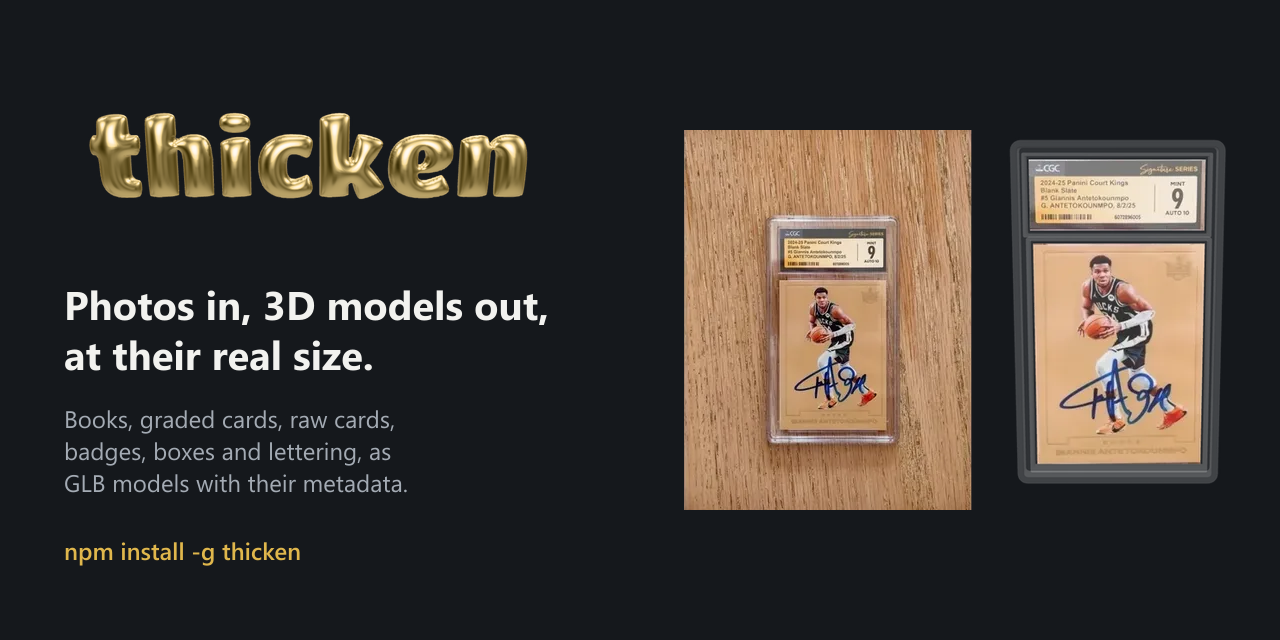
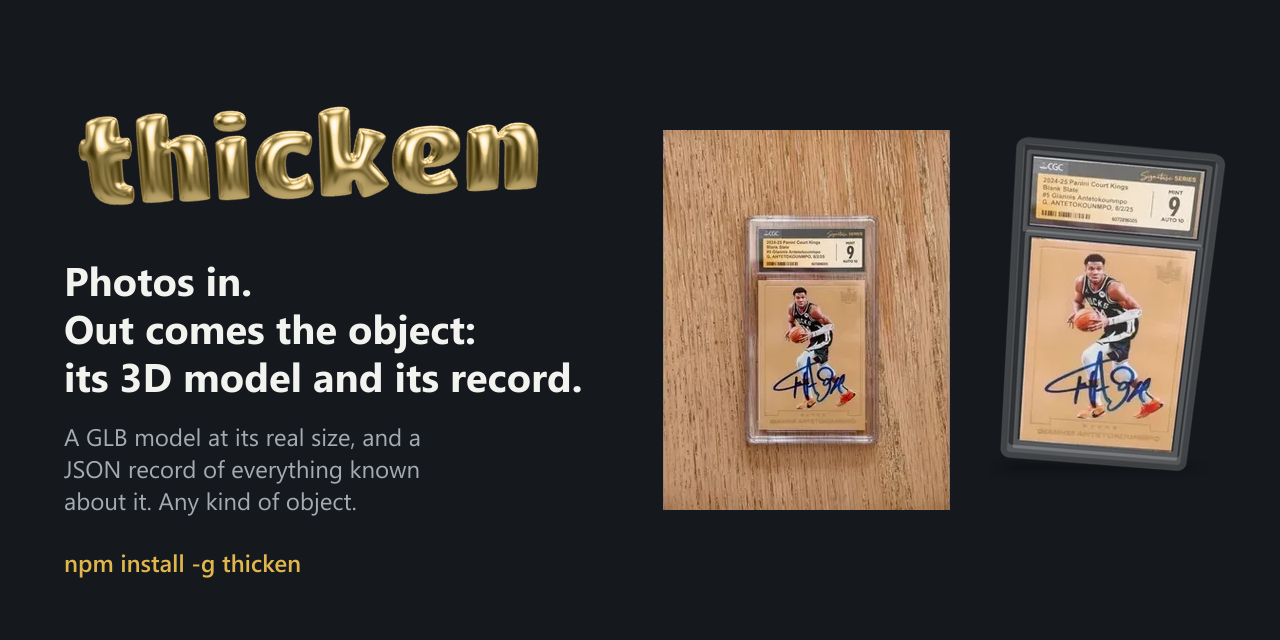
The showcase turns slower and shows both photos; the opening reads plainer
- Each model takes 10 to 13 seconds a turn (6 before), at its own tilt,
  lean and direction, so no two move alike; the bob is a third as high and
  comes once a turn, not twice (scripts/turntable.ts: --lean, --bob, --turn).
- Each shows the front and back photos it was made from, two a row.
- The book is left out until a fresh one is photographed: Skipping
  Christmas's spine read empty.
- The social card is redrawn from the new Giannis turn, its headline the
  README's: "Photos in. Out comes the object: its 3D model and its record."
- From a bench review of the README's opening (gemini-3.8-flash,
  qwen3.8-27b and gemma4-cloud answered; minimax-m2.7 and deepseek-v4.1-flash
  didn't): the record is "looked up in public catalogs", not "wherever its
  kind has a catalog", in the README, the About line, the package and plugin
  descriptions and the MCP tool; "a few come with thicken", not "with it";
  the caption says each model comes with its record; "The other half: the
  record"; the slab's certificate number spelled out, and what the vision
  models read named; the lettering command explained.
- The book profile's User-Agent names thicken in lowercase, with the
  repository as its contact, as Open Library asks of API users.

diff --git a/scripts/turntable.ts b/scripts/turntable.ts
@@ -6,7 +6,8 @@
 //   float: a slow, uneven drift, small turns, a lean and a rise and fall, as a balloon floats (the logo)
 //   node scripts/turntable.ts <model.glb> <out.webp> [--motion spin|float] [--still out.png] [--width 900]
 //     [--height 300] [--zoom 100] [--tilt 75] [--frames 90] [--fps 15] [--exposure 1.0] [--environment neutral|legacy]
-//     [--shadow 0.6]
+//     [--shadow 0.6] [--lean=-6] [--bob 0.008] [--turn=1|-1]   (spin: its lean in degrees, bob as a share of its
+//     height, and which way it turns; a negative number goes after an =, or it's read as an option)
 import { readFileSync } from 'node:fs';
 import { createRequire } from 'node:module';
 import { parseArgs } from 'node:util';
@@ -20,15 +21,17 @@ const { positionals: [model, out], values } = parseArgs({
     width: { type: 'string', default: '900' }, height: { type: 'string', default: '300' }, zoom: { type: 'string', default: '100' },
     tilt: { type: 'string', default: '75' }, frames: { type: 'string', default: '90' }, fps: { type: 'string', default: '15' },
     exposure: { type: 'string', default: '1.0' }, environment: { type: 'string', default: 'neutral' }, shadow: { type: 'string', default: '0' },
+    lean: { type: 'string', default: '-6' }, bob: { type: 'string', default: '0.008' }, turn: { type: 'string', default: '1' },
   },
 });
+const [lean, bob, turn] = ['lean', 'bob', 'turn'].map((key) => Number(values[key as keyof typeof values]));
 if (!model || !out) throw new Error('usage: node scripts/turntable.ts <model.glb> <out.webp> [--motion spin|float] [options]');
 const [width, height, zoom, tilt, frames, fps] = ['width', 'height', 'zoom', 'tilt', 'frames', 'fps'].map((key) => Number(values[key as keyof typeof values]));
 const FOV = 30; // degrees: a fixed lens and distance, so the model never seems to zoom as it moves
 
 /** Where the model is at t (0 to 1, one loop): its roll, pitch and yaw in degrees, and its rise, a share of its height. */
 const MOTIONS: Record<string, (t: number) => { roll: number; pitch: number; yaw: number; rise: number }> = {
-  spin: (t) => ({ roll: -6, pitch: 0, yaw: 360 * t, rise: 0.025 * Math.sin(4 * Math.PI * t) }),
+  spin: (t) => ({ roll: lean, pitch: 0, yaw: 360 * turn * t, rise: bob * Math.sin(2 * Math.PI * t) }),
   float: (t) => ({
     roll: 2.5 * Math.sin(2 * Math.PI * t + 1),
     pitch: 3 * Math.sin(4 * Math.PI * t),

diff --git a/scripts/social-card.ts b/scripts/social-card.ts
@@ -14,12 +14,13 @@ const shown = await sharp(pair, { page: 0 }).resize({ height: PAIR_H }).toBuffer
 const { width: shownWidth = 0 } = await sharp(shown).metadata();
 const text = `<svg xmlns="http://www.w3.org/2000/svg" width="${W}" height="${H}">
   <g font-family="'Segoe UI', -apple-system, Helvetica, Arial, sans-serif">
-    <text x="64" y="320" fill="#f2f2ef" font-size="40" font-weight="700">Photos in. Out comes</text>
-    <text x="64" y="370" fill="#f2f2ef" font-size="40" font-weight="700">its 3D model and its record.</text>
-    <text x="64" y="428" fill="#a4abb4" font-size="24">A GLB model at its real size, and a</text>
-    <text x="64" y="460" fill="#a4abb4" font-size="24">JSON record of everything known</text>
-    <text x="64" y="492" fill="#a4abb4" font-size="24">about it. Any kind of object.</text>
-    <text x="64" y="560" fill="#e0b74c" font-size="24" font-weight="600">npm install -g thicken</text>
+    <text x="64" y="296" fill="#f2f2ef" font-size="40" font-weight="700">Photos in.</text>
+    <text x="64" y="344" fill="#f2f2ef" font-size="40" font-weight="700">Out comes the object:</text>
+    <text x="64" y="392" fill="#f2f2ef" font-size="40" font-weight="700">its 3D model and its record.</text>
+    <text x="64" y="446" fill="#a4abb4" font-size="24">A GLB model at its real size, and a</text>
+    <text x="64" y="478" fill="#a4abb4" font-size="24">JSON record of everything known</text>
+    <text x="64" y="510" fill="#a4abb4" font-size="24">about it. Any kind of object.</text>
+    <text x="64" y="572" fill="#e0b74c" font-size="24" font-weight="600">npm install -g thicken</text>
   </g>
 </svg>`;
 await sharp({ create: { width: W, height: H, channels: 4, background: GROUND } })

diff --git a/src/mcp.ts b/src/mcp.ts
@@ -80,7 +80,7 @@ export async function serve(): Promise<void> {
   }));
   server.registerTool('thicken_make', {
     title: 'Make a 3D model with thicken',
-    description: 'Turns photos of one real object (or artwork, or words, or a book\'s ISBN) into two files that belong together: a GLB model at the object\'s real size, in millimeters, and a JSON record of what it is, read off it and looked up (its profile\'s records: thicken_profiles lists each kind of object and what it records). Writes both files and returns their paths and the main facts. Photos need not be cropped when a vision roster is set up (THICKEN_VISION_URL, THICKEN_VISION_MODELS); without one, give straight-on photos cropped to the object, and name the profile. One object a call: for several, call once each.',
+    description: 'Turns photos of one real object (or artwork, or words, or a book\'s ISBN) into two files that belong together: a GLB model at the object\'s real size, in millimeters, and a JSON record of what it is, read off it by vision models and looked up in public catalogs (its profile\'s records: thicken_profiles lists each kind of object and what it records). Writes both files and returns their paths and the main facts. Photos need not be cropped when a vision roster is set up (THICKEN_VISION_URL, THICKEN_VISION_MODELS); without one, give straight-on photos cropped to the object, and name the profile. One object a call: for several, call once each.',
     inputSchema: makeInput,
   }, async (args) => ({ content: [{ type: 'text', text: await made(args) }] }));
   await server.connect(new StdioServerTransport());

diff --git a/src/profiles/book.ts b/src/profiles/book.ts
@@ -452,7 +452,7 @@ async function fetchBytes(url: string, log: Log): Promise<Buffer | undefined> {
   const started = performance.now();
   const note = (status: Lookup['status']) => log.lookups.push({ host, path, status, ms: Math.round(performance.now() - started) });
   try {
-    const response = await fetch(url, { headers: { 'User-Agent': 'Thicken (3D models from photos)' }, signal: AbortSignal.timeout(LOOKUP_TIMEOUT_MS) });
+    const response = await fetch(url, { headers: { 'User-Agent': 'thicken (3D models from photos; https://github.com/bikemeardsley/thicken)' }, signal: AbortSignal.timeout(LOOKUP_TIMEOUT_MS) });
     note(response.status);
     if (response.ok) return Buffer.from(await response.arrayBuffer());
     if (response.status !== 404) log.warnings.push(`${host} answered ${response.status}`);

diff --git a/README.md b/README.md
@@ -1,5 +1,5 @@
 <p align="center">
-  <img src=".github/logo.webp" width="560" alt="thicken, in gold 3D bubble letters, swaying gently: the logo is a thicken model">
+  <img src=".github/logo.webp" width="560" alt="thicken, in gold 3D bubble letters, drifting slowly: the logo is a thicken model">
 </p>
 
 <p align="center">
@@ -16,22 +16,20 @@
 thicken turns photos of a real object into two files that belong together: a
 **GLB model** at the object's real size, in millimeters, and a **JSON record**
 of everything known about it, read off the object by vision models and looked
-up wherever its kind has a catalog. What thicken knows about a kind of object
-(how it's built, what to read off it, where to look it up) lives in a
-**profile**: a few come with it, and you can [add your own](#adding-a-profile)
-for any kind of object. Put the model in a web page or Blender; build a
-collection, an inventory or an app on the record.
+up in public catalogs, where its kind has one. What thicken knows about a kind
+of object (how it's built, what to read off it, where to look it up) lives in
+a **profile**: a few come with thicken, and you can
+[add your own](#adding-a-profile) for any kind of object. Put the model in a
+web page or Blender; build a collection, an inventory or an app on the record.
 
 <p align="center">
-  <img src=".github/show/giannis.webp" height="220" alt="A photo of a CGC-graded Giannis Antetokounmpo autograph card on a wooden table, beside the clear 3D slab thicken made from it, turning">
-  <img src=".github/show/erving.webp" height="220" alt="A photo of a PSA-graded 1976 Topps Julius Erving in a tall holder, beside its 3D model, turning">
-  <br>
-  <img src=".github/show/psyduck.webp" height="220" alt="A photo of a reverse-holo Psyduck card, beside its 3D model, the foil shimmering as it turns">
-  <img src=".github/show/skipping.webp" height="220" alt="A photo of the hardcover Skipping Christmas, beside its 3D model, turning to show its back cover">
+  <img src=".github/show/giannis.webp" width="49%" alt="Photos of the front and back of a CGC-graded Giannis Antetokounmpo autograph card on a wooden table, beside the clear 3D slab thicken made from them, turning all the way round">
+  <img src=".github/show/erving.webp" width="49%" alt="Photos of the front and back of a PSA-graded 1976 Topps Julius Erving in a tall holder, beside its 3D model, turning all the way round">
+  <img src=".github/show/psyduck.webp" width="49%" alt="Photos of the front and back of a reverse-holo Psyduck card, beside its 3D model, the foil shimmering as it turns">
 </p>
-<p align="center"><sub>In each pair, a photo going in, and the GLB model coming out, turned all the way round. The logo above is a thicken model too: <code>thicken lettering thicken</code>.</sub></p>
+<p align="center"><sub>In each, the photos going in and the model coming out, turned all the way round; each model comes with its record, like the one below. The logo above is a thicken model too, made by its lettering profile: <code>thicken lettering thicken</code>.</sub></p>
 
-**And beside each model, its record.** The Giannis slab's, in part:
+**The other half: the record.** Part of the first one's, a graded Giannis Antetokounmpo card:
 
 ```json
 {
@@ -55,9 +53,10 @@ collection, an inventory or an app on the record.
 }
 ```
 
-The grader and cert come from the label's QR code; the rest the vision models
-read off it. What each profile records is under [What it makes](#what-it-makes);
-every field, in [USAGE.md](USAGE.md#what-the-sidecar-records).
+The grader and certificate number come from the label's QR code; the vision
+models read the rest off the slab. What each profile records is in
+[the table of profiles](#what-it-makes), and every field is described in
+[USAGE.md](USAGE.md#what-the-sidecar-records).
 
 ## Contents
 
